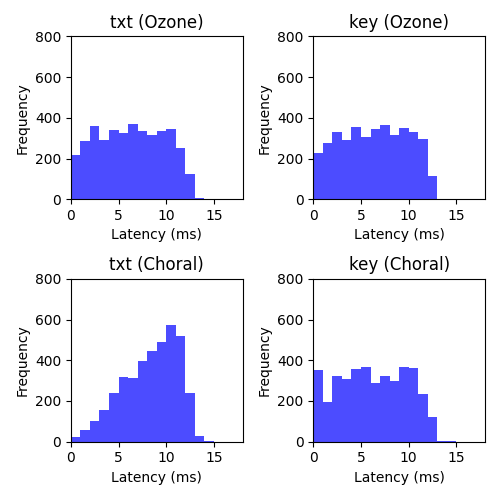
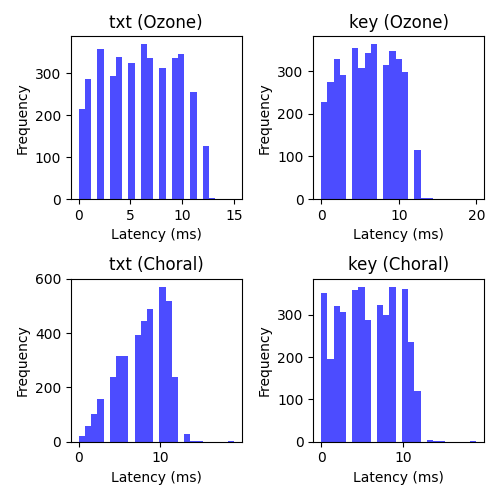
New senders plot

diff --git a/scripts/plot.py b/scripts/plot.py
@@ -16,8 +16,6 @@ def plot_histogram_from_csv(filename, inputs, dims, bins):
         data = data.iloc[100:]
         # Convert each datum to integer
         data = data.astype(int)
-        # Remove outliers
-        data = data[data[0] < dims['right']]
 
         # Uncomment to print the min, max, and average values - along with the file_path
         print(f'{title} - min: {data[0].min()}, max: {data[0].max()}, avg: {data[0].mean()}')
@@ -27,29 +25,11 @@ def plot_histogram_from_csv(filename, inputs, dims, bins):
         axes[i].set_title(title)
         axes[i].set_xlabel('Latency (ms)')
         axes[i].set_ylabel('Frequency')
-        axes[i].set_xlim(left=dims['left'], right=dims['right'])
-        axes[i].set_ylim(bottom=dims['bottom'], top=dims['top'])
 
     plt.tight_layout()
     # plt.savefig(filename, format='png')
     plt.show()
     print(f'Done.')
-
-def plot_producers_histograms():
-    inputs = {
-        'Worker 1 (Ozone)': 'data/concurrentproducers/worker1-latencies.csv', 
-        'Worker 2 (Ozone)': 'data/concurrentproducers/worker2-latencies.csv', 
-        'Worker 1 (Choral)': 'data/inorderproducers/worker1-latencies.csv', 
-        'Worker 2 (Choral)': 'data/inorderproducers/worker2-latencies.csv'
-    }
-    dims = {
-        'left': 0,
-        'right': 20,
-        'bottom': 0,
-        'top': 400
-    }
-
-    plot_histogram_from_csv("figures/producers.png", inputs, dims, bins=10)
 
 def plot_senders_histograms():
     inputs = {
@@ -65,7 +45,7 @@ def plot_senders_histograms():
         'top': 800
     }
 
-    plot_histogram_from_csv("figures/senders.png", inputs, dims, bins=15)
+    plot_histogram_from_csv("figures/senders.png", inputs, dims, bins=25)
 
 ####################################################################################################
 # Producers
@@ -210,8 +190,8 @@ def plot_modelserving_histograms(batch_size):
 
 
 #plot_producers_histograms()
-plot_producer_latency()
-#plot_senders_histograms()
+#plot_producer_latency()
+plot_senders_histograms()
 #plot_modelserving_throughput(10)
 #plot_modelserving_99pi(10)
 #plot_modelserving_histograms(10)
